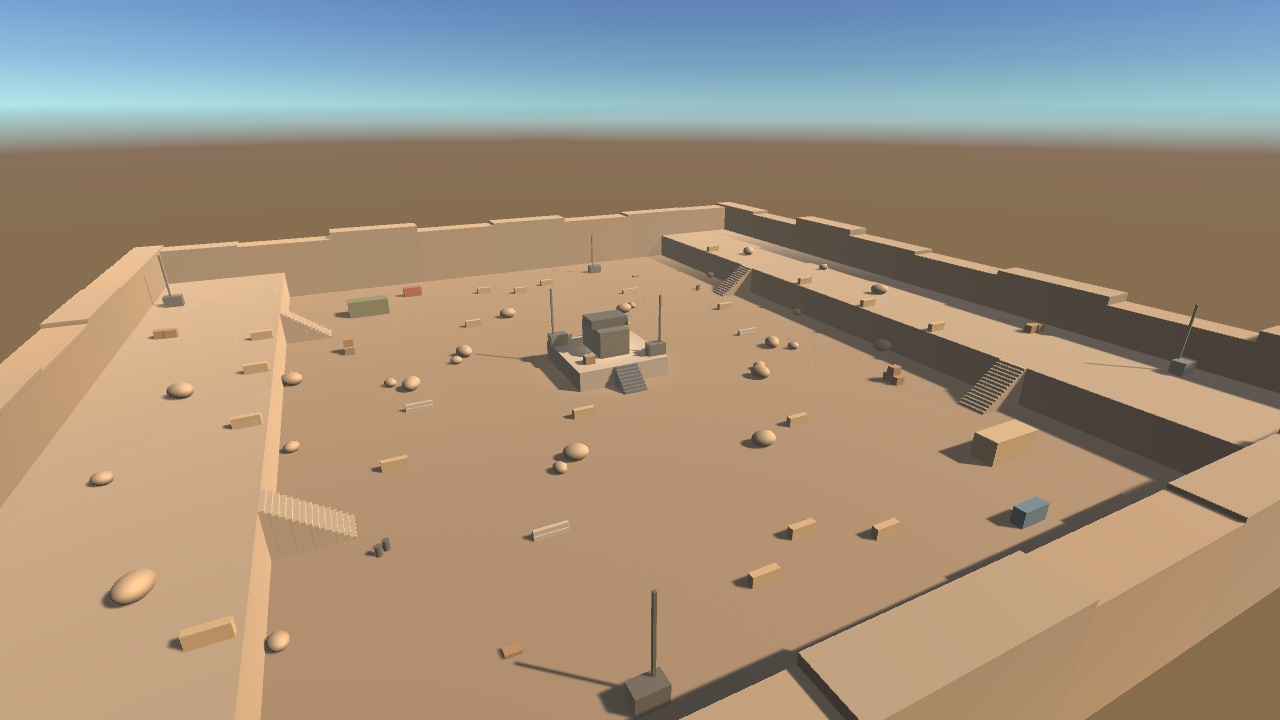
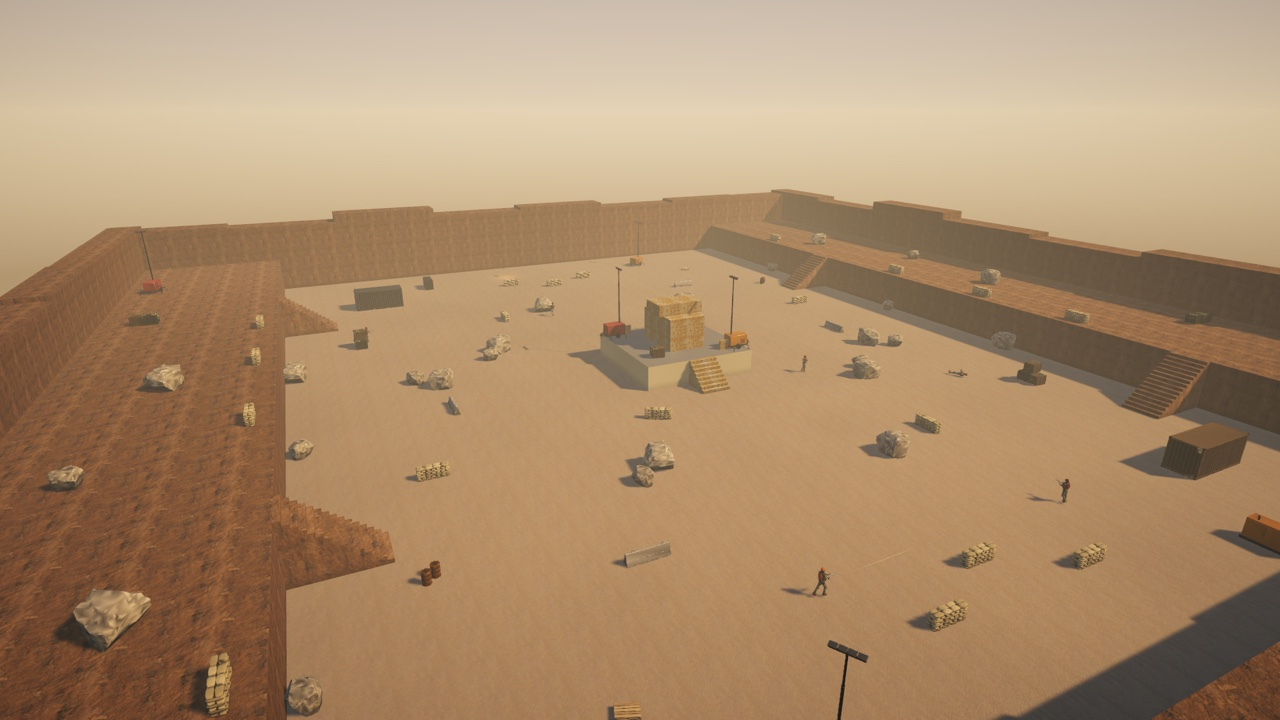
README demo: MOA FPS with the original's art
- New screenshots: first person with the VK-7 and HUD, a bot firing
  (chase camera), the Quarry overview
- Text: the agent also brought in the original's Blender models, photo
  textures, lighting and HUD; verification uses screenshot + playtest

diff --git a/README.ko.md b/README.ko.md
@@ -9,18 +9,19 @@
 
 ## 데모: 유니티로 옮긴 MOA FPS
 
-AI 에이전트가 Direct MCP 도구만으로 새 Unity 6 프로젝트에 MOA FPS(C++/raylib 게임)의 핵심 플레이를 다시 만들었어요. 이동, VK-7 소총, NavMesh 위의 봇 7명, 그리고 텍스트 맵 파일에서 가져온 Quarry 맵까지요.
+AI 에이전트가 Direct MCP 도구만으로 새 Unity 6 프로젝트에 MOA FPS(C++/raylib 게임)를 다시 만들었어요. 이동, VK-7 소총, NavMesh 위의 봇 7명, 텍스트 맵 파일에서 가져온 Quarry 맵을 만든 다음, 원작의 Blender 모델, 사진 텍스처, 조명, HUD까지 옮겼어요.
 
-![Direct MCP로 에이전트가 만든 Quarry 맵](docs/demo/overview.jpg)
+![Direct MCP로 에이전트가 만든 1인칭 화면](docs/demo/first-person.jpg)
 
-| 1인칭 | 봇 관전 |
+| 사격하는 봇 (관전 카메라) | Quarry 맵 |
 |---|---|
-| ![1인칭 화면](docs/demo/first-person.jpg) | ![봇을 따라가는 관전 카메라](docs/demo/spectate.jpg) |
+| ![다른 봇을 쏘는 봇](docs/demo/spectate.jpg) | ![Quarry 맵 전경](docs/demo/overview.jpg) |
 
 - **원작과 같은 수치.** 이동, 무기, 봇, 매치 값은 원작의 `.ini` 파일에서 실행 중에 그대로 읽어요.
-- **에이전트가 스스로 검증.** 스크립트 작성 → `refresh_assets` + `unity_status`로 컴파일 에러 확인 → `execute_csharp`로 맵 가져오기(소품 82개, 스폰 18곳), NavMesh 굽기, 프리팹 생성 → `screenshot`으로 보고 뿌연 조명 수정 → `play_mode` + `read_console`로 봇끼리 서로 찾아 쏘는 것과 에러가 없는 걸 확인했어요.
+- **원작과 같은 그래픽.** 원작 GLSL에 맞춘 URP 셰이더(버텍스 컬러, 팀 색, 사진 PBR 표면), 원작 뷰모델 코드대로 자세를 잡은 1인칭 총과 팔, 원작 HUD 코드대로 배치한 HUD.
+- **에이전트가 스스로 검증.** 스크립트 작성 → `refresh_assets` + `unity_status`로 컴파일 에러 확인 → `execute_csharp`로 맵 가져오기(소품 82개, 스폰 18곳), NavMesh 굽기, 프리팹 생성 → `screenshot`으로 조명과 HUD 확인 → `play_mode` + `playtest`로 봇끼리 서로 찾아 쏘는 것과 에러가 없는 걸 확인했어요.
 - **플레이 모드에서 데미지 계산 확인:** 37 m 헤드샷이 44 데미지 = 26 × 0.866(거리 감쇠) × 1.95(헤드).
-- 그래픽은 블록아웃(기본 도형)이고 원작 모델이 아니에요. 헤드리스로만 검증했고, 마우스/키보드 조작감은 아직 사람이 테스트하지 않았어요.
+- 헤드리스로만 검증했고, 마우스/키보드 조작감과 합성 사운드는 아직 사람이 확인하지 않았어요.
 
 ## 설치 (2분)
 

diff --git a/README.md b/README.md
@@ -11,18 +11,19 @@
 
 ## Demo: MOA FPS in Unity
 
-An agent rebuilt the core loop of MOA FPS (a C++/raylib game) in a new Unity 6 project using only the Direct MCP tools: movement, the VK-7 rifle, 7 bots on a NavMesh, and the Quarry map imported from its text map format.
+An agent rebuilt MOA FPS (a C++/raylib game) in a new Unity 6 project using only the Direct MCP tools: movement, the VK-7 rifle, 7 bots on a NavMesh and the Quarry map imported from its text map format, then brought in the original's own Blender models, photo textures, lighting and HUD.
 
-![Quarry map, built by an agent through Direct MCP](docs/demo/overview.jpg)
+![First-person view with the VK-7, built by an agent through Direct MCP](docs/demo/first-person.jpg)
 
-| First person | Spectating a bot |
+| A bot firing (chase camera) | The Quarry map |
 |---|---|
-| ![First-person view](docs/demo/first-person.jpg) | ![Chase camera following a bot](docs/demo/spectate.jpg) |
+| ![Bot firing at another bot](docs/demo/spectate.jpg) | ![Quarry overview](docs/demo/overview.jpg) |
 
 - **Same numbers as the original.** Movement, weapon, bot and match values are read at runtime from the game's original `.ini` files.
-- **The agent tested its own work.** Scripts → `refresh_assets` + `unity_status` for compile errors → `execute_csharp` to import the map (82 props, 18 spawns), bake the NavMesh and build prefabs → `screenshot` to fix washed-out lighting → `play_mode` + `read_console` to watch bots find and shoot each other with no errors.
+- **Same look as the original.** URP shaders written to match the original's GLSL (baked vertex colours, team paint, photo PBR surfaces), a first-person rig posed like its viewmodel code, and a HUD laid out from its HUD code.
+- **The agent tested its own work.** Scripts → `refresh_assets` + `unity_status` for compile errors → `execute_csharp` to import the map (82 props, 18 spawns), bake the NavMesh and build prefabs → `screenshot` to check lighting and the HUD → `play_mode` + `playtest` to watch bots find and shoot each other with no errors.
 - **Damage math checked in play mode:** a 37 m headshot did 44 damage = 26 × 0.866 (falloff) × 1.95 (head).
-- Blockout art (primitives, not the original models). Verified headless; mouse/keyboard feel has not been tested by a person yet.
+- Verified headless; mouse/keyboard feel and the synthesized sounds have not been checked by a person yet.
 
 ## Install (2 minutes)
 
